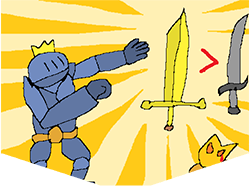
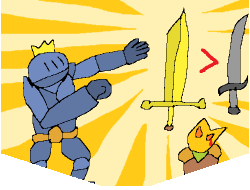
Beta art pass

diff --git a/src/main/java/charbosses/bosses/Hermit/NewAge/ArchetypeAct1SharpshooterNewAge.java b/src/main/java/charbosses/bosses/Hermit/NewAge/ArchetypeAct1SharpshooterNewAge.java
@@ -4,14 +4,17 @@ import charbosses.bosses.AbstractCharBoss;
 import charbosses.bosses.Ironclad.ArchetypeBaseIronclad;
 import charbosses.cards.curses.EnInjury;
 import charbosses.cards.hermit.*;
-import charbosses.powers.bossmechanicpowers.DefectAncientConstructPower;
 import charbosses.powers.bossmechanicpowers.HermitConcentrateAdder;
 import charbosses.powers.bossmechanicpowers.HermitConcentrationPower;
 import charbosses.relics.*;
 import com.megacrit.cardcrawl.actions.common.ApplyPowerAction;
+import com.megacrit.cardcrawl.actions.common.SpawnMonsterAction;
 import com.megacrit.cardcrawl.cards.AbstractCard;
 import com.megacrit.cardcrawl.core.AbstractCreature;
 import com.megacrit.cardcrawl.dungeons.AbstractDungeon;
+import com.megacrit.cardcrawl.monsters.AbstractMonster;
+import com.megacrit.cardcrawl.monsters.exordium.LouseNormal;
+import com.megacrit.cardcrawl.powers.StrengthPower;
 
 import java.util.ArrayList;
 
@@ -32,6 +35,12 @@ public class ArchetypeAct1SharpshooterNewAge extends ArchetypeBaseIronclad {
         super.addedPreBattle();
         AbstractCreature p = AbstractCharBoss.boss;
         AbstractDungeon.actionManager.addToBottom(new ApplyPowerAction(p, p, new HermitConcentrationPower(p), damageThreshold));
+
+        AbstractMonster tangerine = new LouseNormal(-100, 0);
+        tangerine.maxHealth += 24;
+        tangerine.currentHealth += 24;
+        tangerine.powers.add(new StrengthPower(tangerine, 2));
+        AbstractDungeon.actionManager.addToBottom(new SpawnMonsterAction(tangerine, true));
     }
 
 
@@ -80,8 +89,8 @@ public class ArchetypeAct1SharpshooterNewAge extends ArchetypeBaseIronclad {
                     addToList(cardsList, new EnDive());
                     addToList(cardsList, new EnDeadeye());
                     addToList(cardsList, new EnStrikeHermit());
-                    turn=0;
-                    looped=true;
+                    turn = 0;
+                    looped = true;
                     break;
             }
         } else {
@@ -114,11 +123,10 @@ public class ArchetypeAct1SharpshooterNewAge extends ArchetypeBaseIronclad {
                     addToList(cardsList, new EnDive());
                     if (defaultToggle) {
                         addToList(cardsList, new EnInjury());
-                    }
-                    else
+                    } else
                         addToList(cardsList, new EnDeadeye());
                     addToList(cardsList, new EnStrikeHermit());
-                    turn=0;
+                    turn = 0;
                     break;
             }
         }

diff --git a/src/main/java/gremlin/cards/AbstractGremlinCard.java b/src/main/java/gremlin/cards/AbstractGremlinCard.java
@@ -1,9 +1,13 @@
 package gremlin.cards;
 
 import basemod.abstracts.CustomCard;
+import com.badlogic.gdx.graphics.Texture;
 import com.megacrit.cardcrawl.cards.AbstractCard;
+import com.megacrit.cardcrawl.core.Settings;
+import com.megacrit.cardcrawl.unlock.UnlockTracker;
 import gremlin.GremlinMod;
 import gremlin.patches.AbstractCardEnum;
+import hermit.util.TextureLoader;
 
 import static gremlin.GremlinMod.*;
 
@@ -19,6 +23,8 @@ public abstract class AbstractGremlinCard extends CustomCard {
     public int baseBlamage = 0;
     public int blamage = 0;
     public boolean upgradedBlamage = false;
+
+    public String betaArtPath;
 
     protected AbstractGremlinCard(String id, String name, String img, int cost, String rawDescription, CardType type,
                                   CardRarity rarity, CardTarget target) {
@@ -107,5 +113,27 @@ public abstract class AbstractGremlinCard extends CustomCard {
             return ART_GREMLIN.NOB;
         }
         return ART_GREMLIN.NONE;
+    }
+
+    @Override
+    protected Texture getPortraitImage() {
+        if (Settings.PLAYTESTER_ART_MODE || UnlockTracker.betaCardPref.getBoolean(this.cardID, false)) {
+            if (this.textureImg == null) {
+                return null;
+            } else {
+                if (betaArtPath != null) {
+                    int endingIndex = betaArtPath.lastIndexOf(".");
+                    String newPath = betaArtPath.substring(0, endingIndex) + "_p" + betaArtPath.substring(endingIndex);
+                    newPath = "gremlinResources/images/cards/betacards/" + newPath;
+                    System.out.println("Finding texture: " + newPath);
+
+                    Texture portraitTexture;
+                    portraitTexture = TextureLoader.getTexture(newPath);
+
+                    return portraitTexture;
+                }
+            }
+        }
+        return super.getPortraitImage();
     }
 }

diff --git a/src/main/java/gremlin/GremlinMod.java b/src/main/java/gremlin/GremlinMod.java
@@ -1,6 +1,7 @@
 package gremlin;
 
 import basemod.BaseMod;
+import basemod.ReflectionHacks;
 import basemod.eventUtil.AddEventParams;
 import basemod.eventUtil.EventUtils;
 import basemod.helpers.RelicType;
@@ -9,6 +10,7 @@ import charbosses.bosses.AbstractCharBoss;
 import charbosses.cards.AbstractBossCard;
 import com.badlogic.gdx.Gdx;
 import com.badlogic.gdx.graphics.Color;
+import com.badlogic.gdx.graphics.Texture;
 import com.badlogic.gdx.graphics.g2d.TextureAtlas;
 import com.esotericsoftware.spine.*;
 import com.evacipated.cardcrawl.mod.widepotions.WidePotionsMod;
@@ -46,6 +48,7 @@ import gremlin.powers.AbstractGremlinPower;
 import gremlin.relics.*;
 import org.apache.logging.log4j.LogManager;
 import org.apache.logging.log4j.Logger;
+import slimebound.cards.AbstractSlimeboundCard;
 
 import java.util.ArrayList;
 import java.util.HashMap;
@@ -513,5 +516,18 @@ public class GremlinMod implements EditCharactersSubscriber, EditStringsSubscrib
                 ((GremlinCharacter) AbstractDungeon.player).mobState.setAll(AbstractDungeon.player.currentHealth);
             }
         }
+    }
+
+    public static void loadJokeCardImage(AbstractCard card, String img) {
+        if (card instanceof AbstractGremlinCard) {
+            ((AbstractGremlinCard) card).betaArtPath = img;
+        }
+        Texture cardTexture;
+        cardTexture = hermit.util.TextureLoader.getTexture(getModID() + "Resources/cards/betacards/" + img);
+        cardTexture.setFilter(Texture.TextureFilter.Linear, Texture.TextureFilter.Linear);
+        int tw = cardTexture.getWidth();
+        int th = cardTexture.getHeight();
+        TextureAtlas.AtlasRegion cardImg = new TextureAtlas.AtlasRegion(cardTexture, 0, 0, tw, th);
+        ReflectionHacks.setPrivate(card, AbstractCard.class, "jokePortrait", cardImg);
     }
 }

diff --git a/src/main/java/downfall/downfallMod.java b/src/main/java/downfall/downfallMod.java
@@ -1299,11 +1299,7 @@ public class downfallMod implements
         BaseMod.addMonster(CharBossSilent.ID, () -> new CharBossMonsterGroup(new AbstractMonster[]{new CharBossSilent()}));
         BaseMod.addMonster(CharBossDefect.ID, () -> new CharBossMonsterGroup(new AbstractMonster[]{new CharBossDefect()}));
         BaseMod.addMonster(CharBossWatcher.ID, () -> new CharBossMonsterGroup(new AbstractMonster[]{new CharBossWatcher()}));
-        AbstractMonster tangerine = new LouseNormal(-100, 0);
-        tangerine.maxHealth += 24;
-        tangerine.currentHealth += 24;
-        tangerine.powers.add(new StrengthPower(tangerine, 2));
-        BaseMod.addMonster(CharBossHermit.ID, () -> new CharBossMonsterGroup(new AbstractMonster[]{new CharBossHermit(), tangerine}));
+        BaseMod.addMonster(CharBossHermit.ID, () -> new CharBossMonsterGroup(new AbstractMonster[]{new CharBossHermit()}));
 
         BaseMod.addMonster(NeowBoss.ID, () -> new MonsterGroup(new AbstractMonster[]{new NeowBoss()}));
         BaseMod.addMonster(NeowBossFinal.ID, () -> new CharBossMonsterGroup(new AbstractMonster[]{new NeowBossFinal()}));

diff --git a/src/main/java/guardian/cards/EvasiveProtocol.java b/src/main/java/guardian/cards/EvasiveProtocol.java
@@ -17,6 +17,8 @@ import guardian.patches.AbstractCardEnum;
 import guardian.powers.DontLeaveDefensiveModePower;
 import guardian.powers.EvasiveProtocolPower;
 
+import static guardian.GuardianMod.makeBetaCardPath;
+
 public class EvasiveProtocol extends AbstractGuardianCard {
     public static final String ID = GuardianMod.makeID("EvasiveProtocol");
     public static final String NAME;
@@ -51,6 +53,7 @@ public class EvasiveProtocol extends AbstractGuardianCard {
         this.socketCount = SOCKETS;
         updateDescription();
         loadGemMisc();
+        GuardianMod.loadJokeCardImage(this, makeBetaCardPath("EvasiveProtocol.png"));
     }
 
     public void use(AbstractPlayer p, AbstractMonster m) {

diff --git a/src/main/java/gremlin/cards/Wizardry.java b/src/main/java/gremlin/cards/Wizardry.java
@@ -7,6 +7,7 @@ import com.megacrit.cardcrawl.core.CardCrawlGame;
 import com.megacrit.cardcrawl.dungeons.AbstractDungeon;
 import com.megacrit.cardcrawl.localization.CardStrings;
 import com.megacrit.cardcrawl.monsters.AbstractMonster;
+import gremlin.GremlinMod;
 import gremlin.powers.WizardryPower;
 
 import static gremlin.GremlinMod.WIZARD_GREMLIN;
@@ -32,6 +33,7 @@ public class Wizardry extends AbstractGremlinCard {
         this.magicNumber = baseMagicNumber;
         this.tags.add(WIZARD_GREMLIN);
         setBackgrounds();
+        GremlinMod.loadJokeCardImage(this, "gremlinResources/images/cards/betacards/Wizardry.png");
     }
 
     public void use(AbstractPlayer p, AbstractMonster m)

diff --git a/src/main/java/gremlin/cards/AggressiveDefense.java b/src/main/java/gremlin/cards/AggressiveDefense.java
@@ -10,6 +10,7 @@ import com.megacrit.cardcrawl.core.CardCrawlGame;
 import com.megacrit.cardcrawl.dungeons.AbstractDungeon;
 import com.megacrit.cardcrawl.localization.CardStrings;
 import com.megacrit.cardcrawl.monsters.AbstractMonster;
+import gremlin.GremlinMod;
 import gremlin.powers.BashedPower;
 
 import static gremlin.GremlinMod.SHIELD_GREMLIN;
@@ -39,6 +40,7 @@ public class AggressiveDefense extends AbstractGremlinCard {
         this.magicNumber = MAGIC;
         this.tags.add(SHIELD_GREMLIN);
         setBackgrounds();
+        GremlinMod.loadJokeCardImage(this, "gremlinResources/images/cards/betacards/AggressiveDefense.png");
     }
 
     @Override

diff --git a/src/main/java/sneckomod/cards/SoulCleanse.java b/src/main/java/sneckomod/cards/SoulCleanse.java
@@ -2,6 +2,7 @@ package sneckomod.cards;
 
 import com.megacrit.cardcrawl.characters.AbstractPlayer;
 import com.megacrit.cardcrawl.monsters.AbstractMonster;
+import com.megacrit.cardcrawl.monsters.city.Snecko;
 import sneckomod.SneckoMod;
 import sneckomod.actions.MuddleHandAction;
 
@@ -15,6 +16,7 @@ public class SoulCleanse extends AbstractSneckoCard {
         super(ID, 0, CardType.SKILL, CardRarity.UNCOMMON, CardTarget.SELF);
         tags.add(SneckoMod.SNEKPROOF);
         exhaust = true;
+        SneckoMod.loadJokeCardImage(this, "sneckomodResources/images/betacards/SoulCleanse.png");
     }
 
     public void use(AbstractPlayer p, AbstractMonster m) {

diff --git a/src/main/java/gremlin/cards/PourSalt.java b/src/main/java/gremlin/cards/PourSalt.java
@@ -8,6 +8,7 @@ import com.megacrit.cardcrawl.core.CardCrawlGame;
 import com.megacrit.cardcrawl.dungeons.AbstractDungeon;
 import com.megacrit.cardcrawl.localization.CardStrings;
 import com.megacrit.cardcrawl.monsters.AbstractMonster;
+import gremlin.GremlinMod;
 import gremlin.actions.PourSaltOuterAction;
 
 import static gremlin.GremlinMod.FAT_GREMLIN;
@@ -38,6 +39,7 @@ public class PourSalt extends AbstractGremlinCard {
         this.cardsToPreview = new Shiv();
         this.tags.add(FAT_GREMLIN);
         setBackgrounds();
+        GremlinMod.loadJokeCardImage(this, "gremlinResources/images/cards/betacards/PourSalt.png");
     }
 
     @Override

diff --git a/src/main/java/sneckomod/cards/Nope.java b/src/main/java/sneckomod/cards/Nope.java
@@ -2,6 +2,7 @@ package sneckomod.cards;
 
 import com.megacrit.cardcrawl.characters.AbstractPlayer;
 import com.megacrit.cardcrawl.monsters.AbstractMonster;
+import com.megacrit.cardcrawl.monsters.city.Snecko;
 import sneckomod.SneckoMod;
 import sneckomod.actions.NopeAction;
 
@@ -14,6 +15,7 @@ public class Nope extends AbstractSneckoCard {
     public Nope() {
         super(ID, 0, CardType.SKILL, CardRarity.COMMON, CardTarget.SELF);
         tags.add(SneckoMod.SNEKPROOF);
+        SneckoMod.loadJokeCardImage(this, "sneckomodResources/images/betacards/Nope.png");
     }
 
     public void use(AbstractPlayer p, AbstractMonster m) {

diff --git a/src/main/java/automaton/cards/CleanCode.java b/src/main/java/automaton/cards/CleanCode.java
@@ -1,5 +1,6 @@
 package automaton.cards;
 
+import automaton.AutomatonMod;
 import automaton.powers.CleanCodePower;
 import automaton.powers.RemoveNextErrorPower;
 import com.megacrit.cardcrawl.characters.AbstractPlayer;
@@ -19,6 +20,7 @@ public class CleanCode extends AbstractBronzeCard {
         super(ID, 1, CardType.POWER, CardRarity.RARE, CardTarget.SELF);
         baseMagicNumber = magicNumber = MAGIC;
       //  this.tags.add(SneckoMod.BANNEDFORSNECKO);
+        AutomatonMod.loadJokeCardImage(this, AutomatonMod.makeBetaCardPath("CleanCode.png"));
     }
 
     public void use(AbstractPlayer p, AbstractMonster m) {

diff --git a/src/main/java/automaton/cards/Overheat.java b/src/main/java/automaton/cards/Overheat.java
@@ -1,5 +1,6 @@
 package automaton.cards;
 
+import automaton.AutomatonMod;
 import automaton.powers.RemoveNextErrorPower;
 import com.megacrit.cardcrawl.actions.AbstractGameAction;
 import com.megacrit.cardcrawl.characters.AbstractPlayer;
@@ -17,6 +18,7 @@ public class Overheat extends AbstractBronzeCard {
     public Overheat() {
         super(ID, 2, CardType.ATTACK, CardRarity.COMMON, CardTarget.ENEMY);
         baseDamage = DAMAGE;
+        AutomatonMod.loadJokeCardImage(this, AutomatonMod.makeBetaCardPath("Overheat.png"));
     }
 
     public void use(AbstractPlayer p, AbstractMonster m) {
